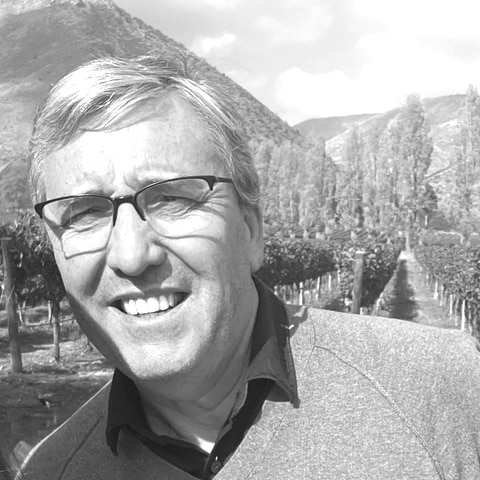
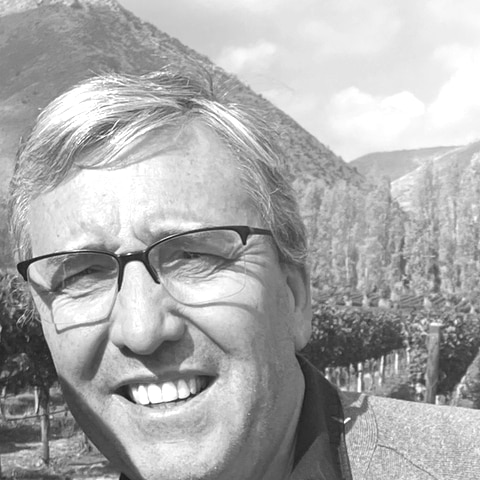
Tighten Ricardo Bartel framing from the hi-res outdoor shot.
Crop closer to head and shoulders so the vineyard competes less, without a cutout that breaks hair edges.

diff --git a/src/lib/content/en.ts b/src/lib/content/en.ts
@@ -1477,7 +1477,7 @@ export const teamMembers = [
     role: "Director",
     image: "/team/people/ricardo-bartel.jpg",
     group: "direccion",
-    objectPosition: "center 20%",
+    objectPosition: "center 28%",
   },
   {
     name: "Diego Jorreto",

diff --git a/src/lib/content/es.ts b/src/lib/content/es.ts
@@ -1477,7 +1477,7 @@ export const teamMembers = [
     role: "Director",
     image: "/team/people/ricardo-bartel.jpg",
     group: "direccion",
-    objectPosition: "center 20%",
+    objectPosition: "center 28%",
   },
   {
     name: "Diego Jorreto",

diff --git a/src/lib/content/pt.ts b/src/lib/content/pt.ts
@@ -1477,7 +1477,7 @@ export const teamMembers = [
     role: "Diretor",
     image: "/team/people/ricardo-bartel.jpg",
     group: "direccion",
-    objectPosition: "center 20%",
+    objectPosition: "center 28%",
   },
   {
     name: "Diego Jorreto",
